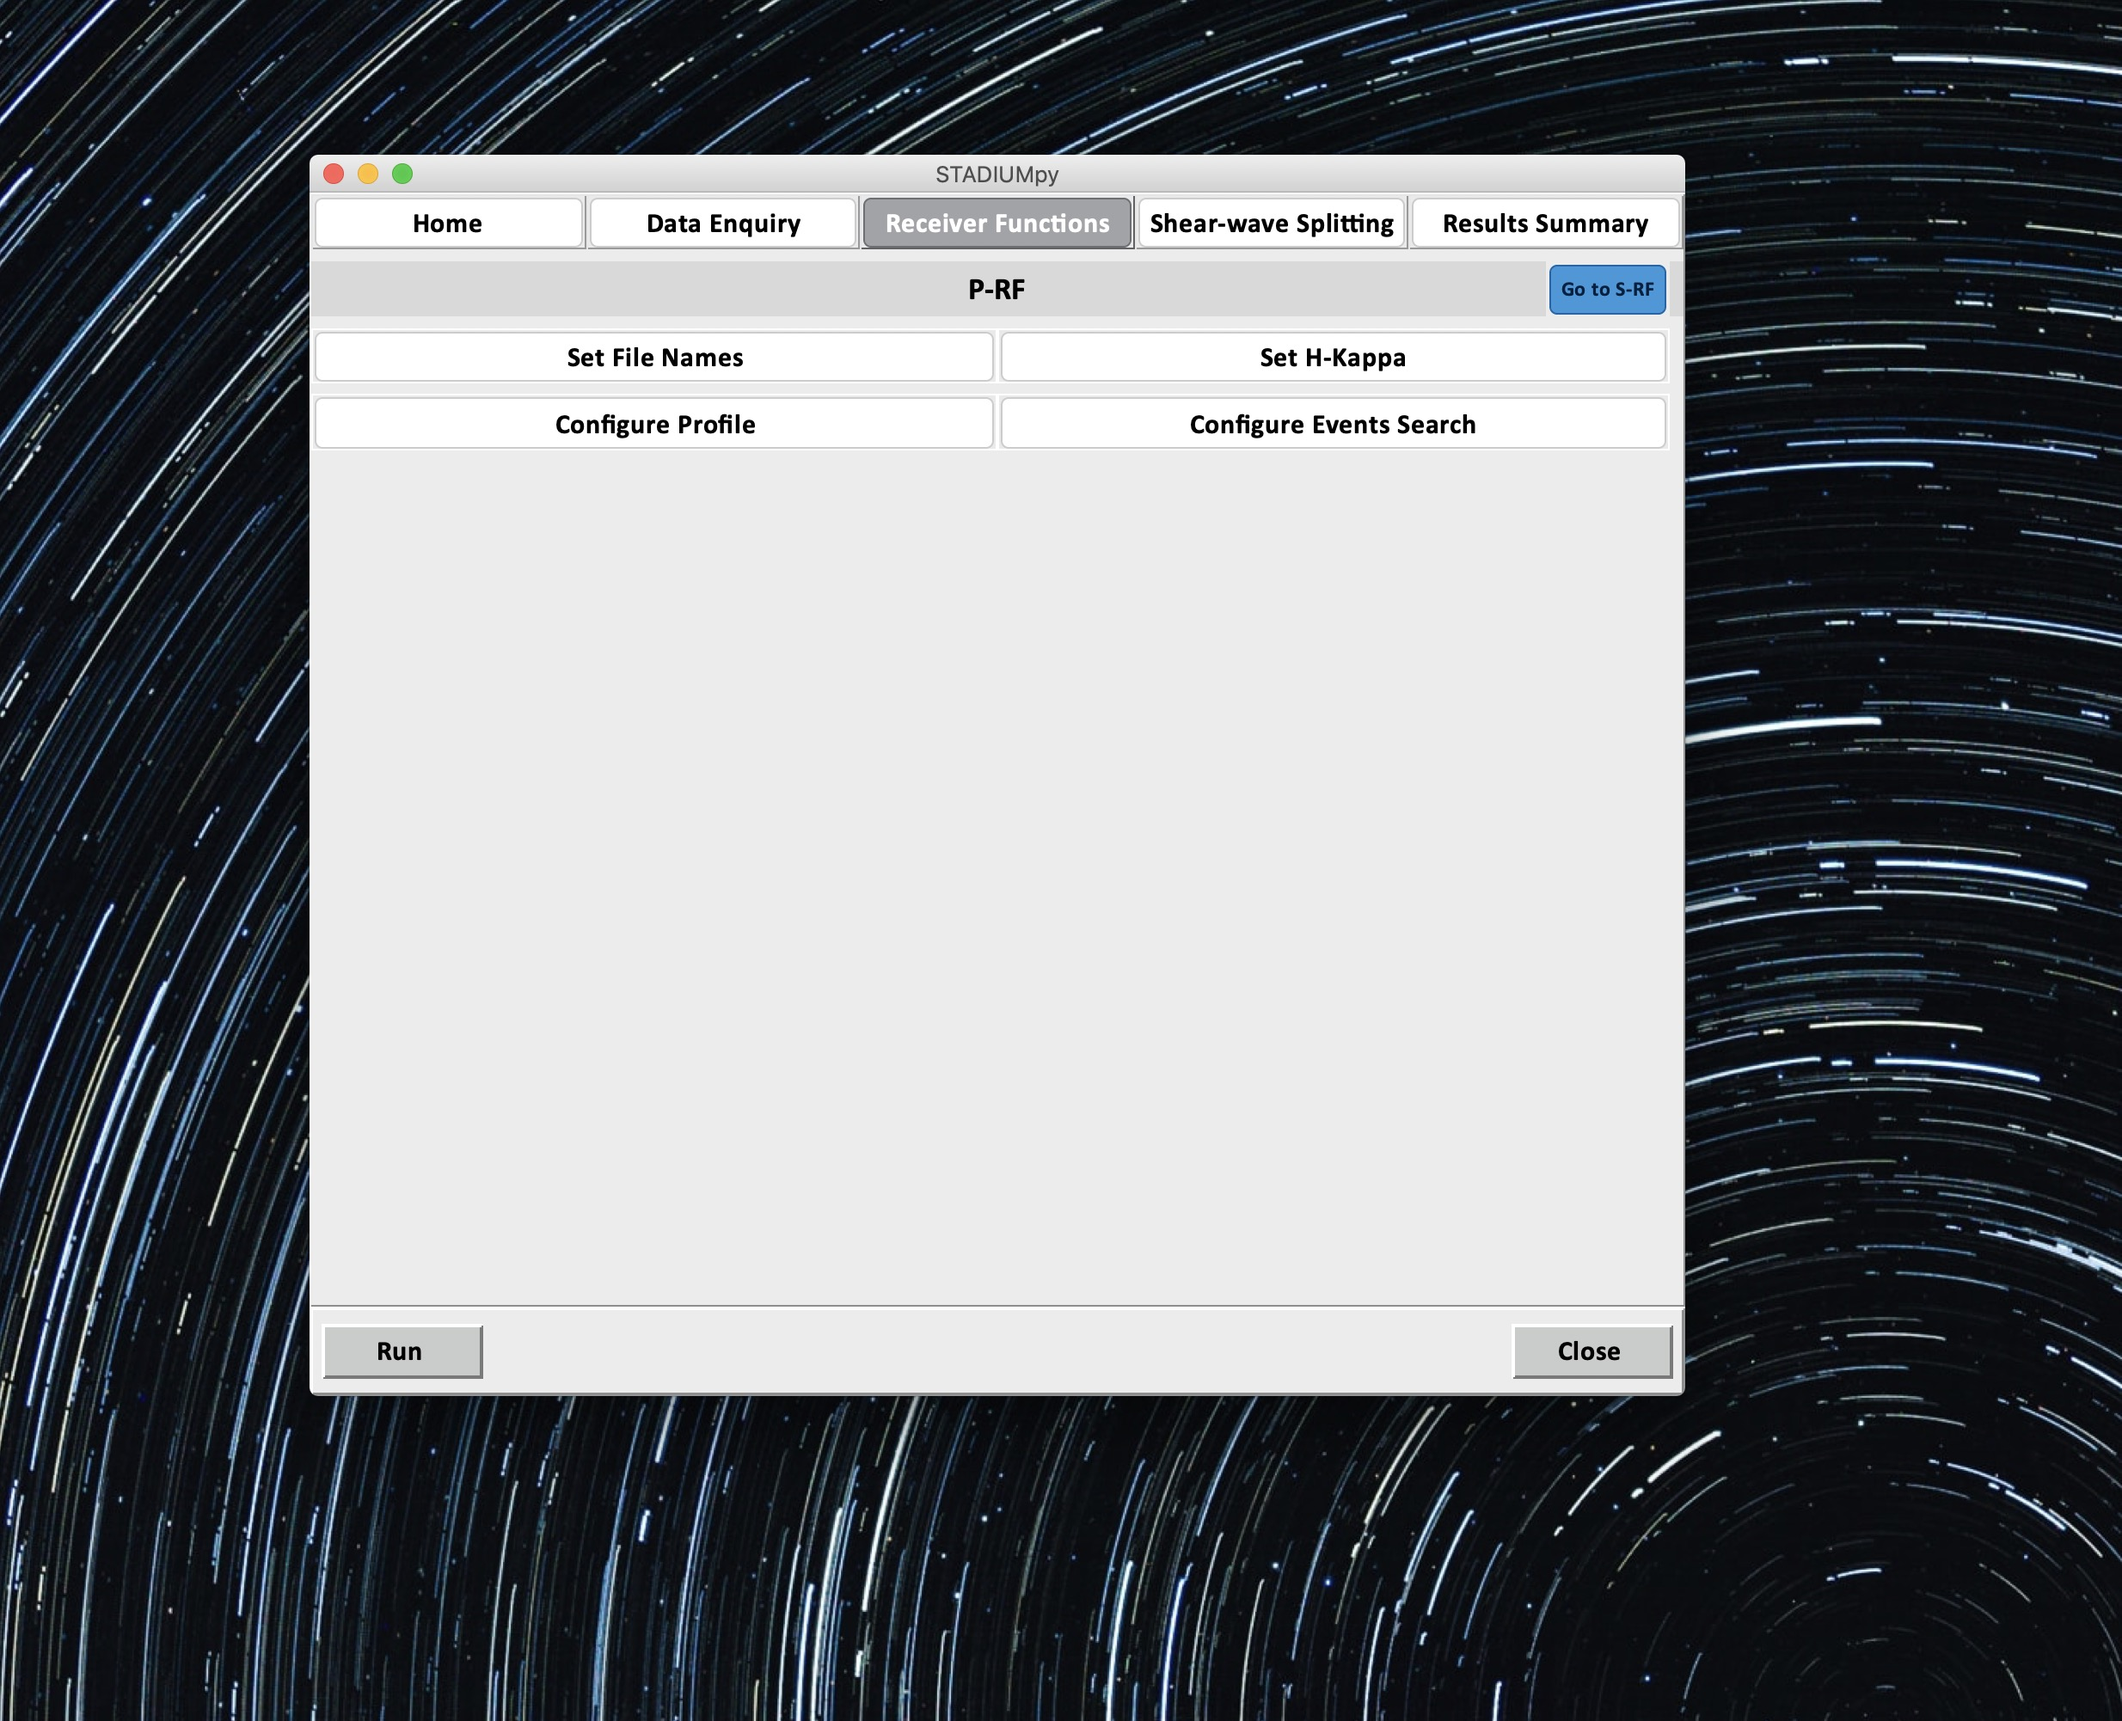
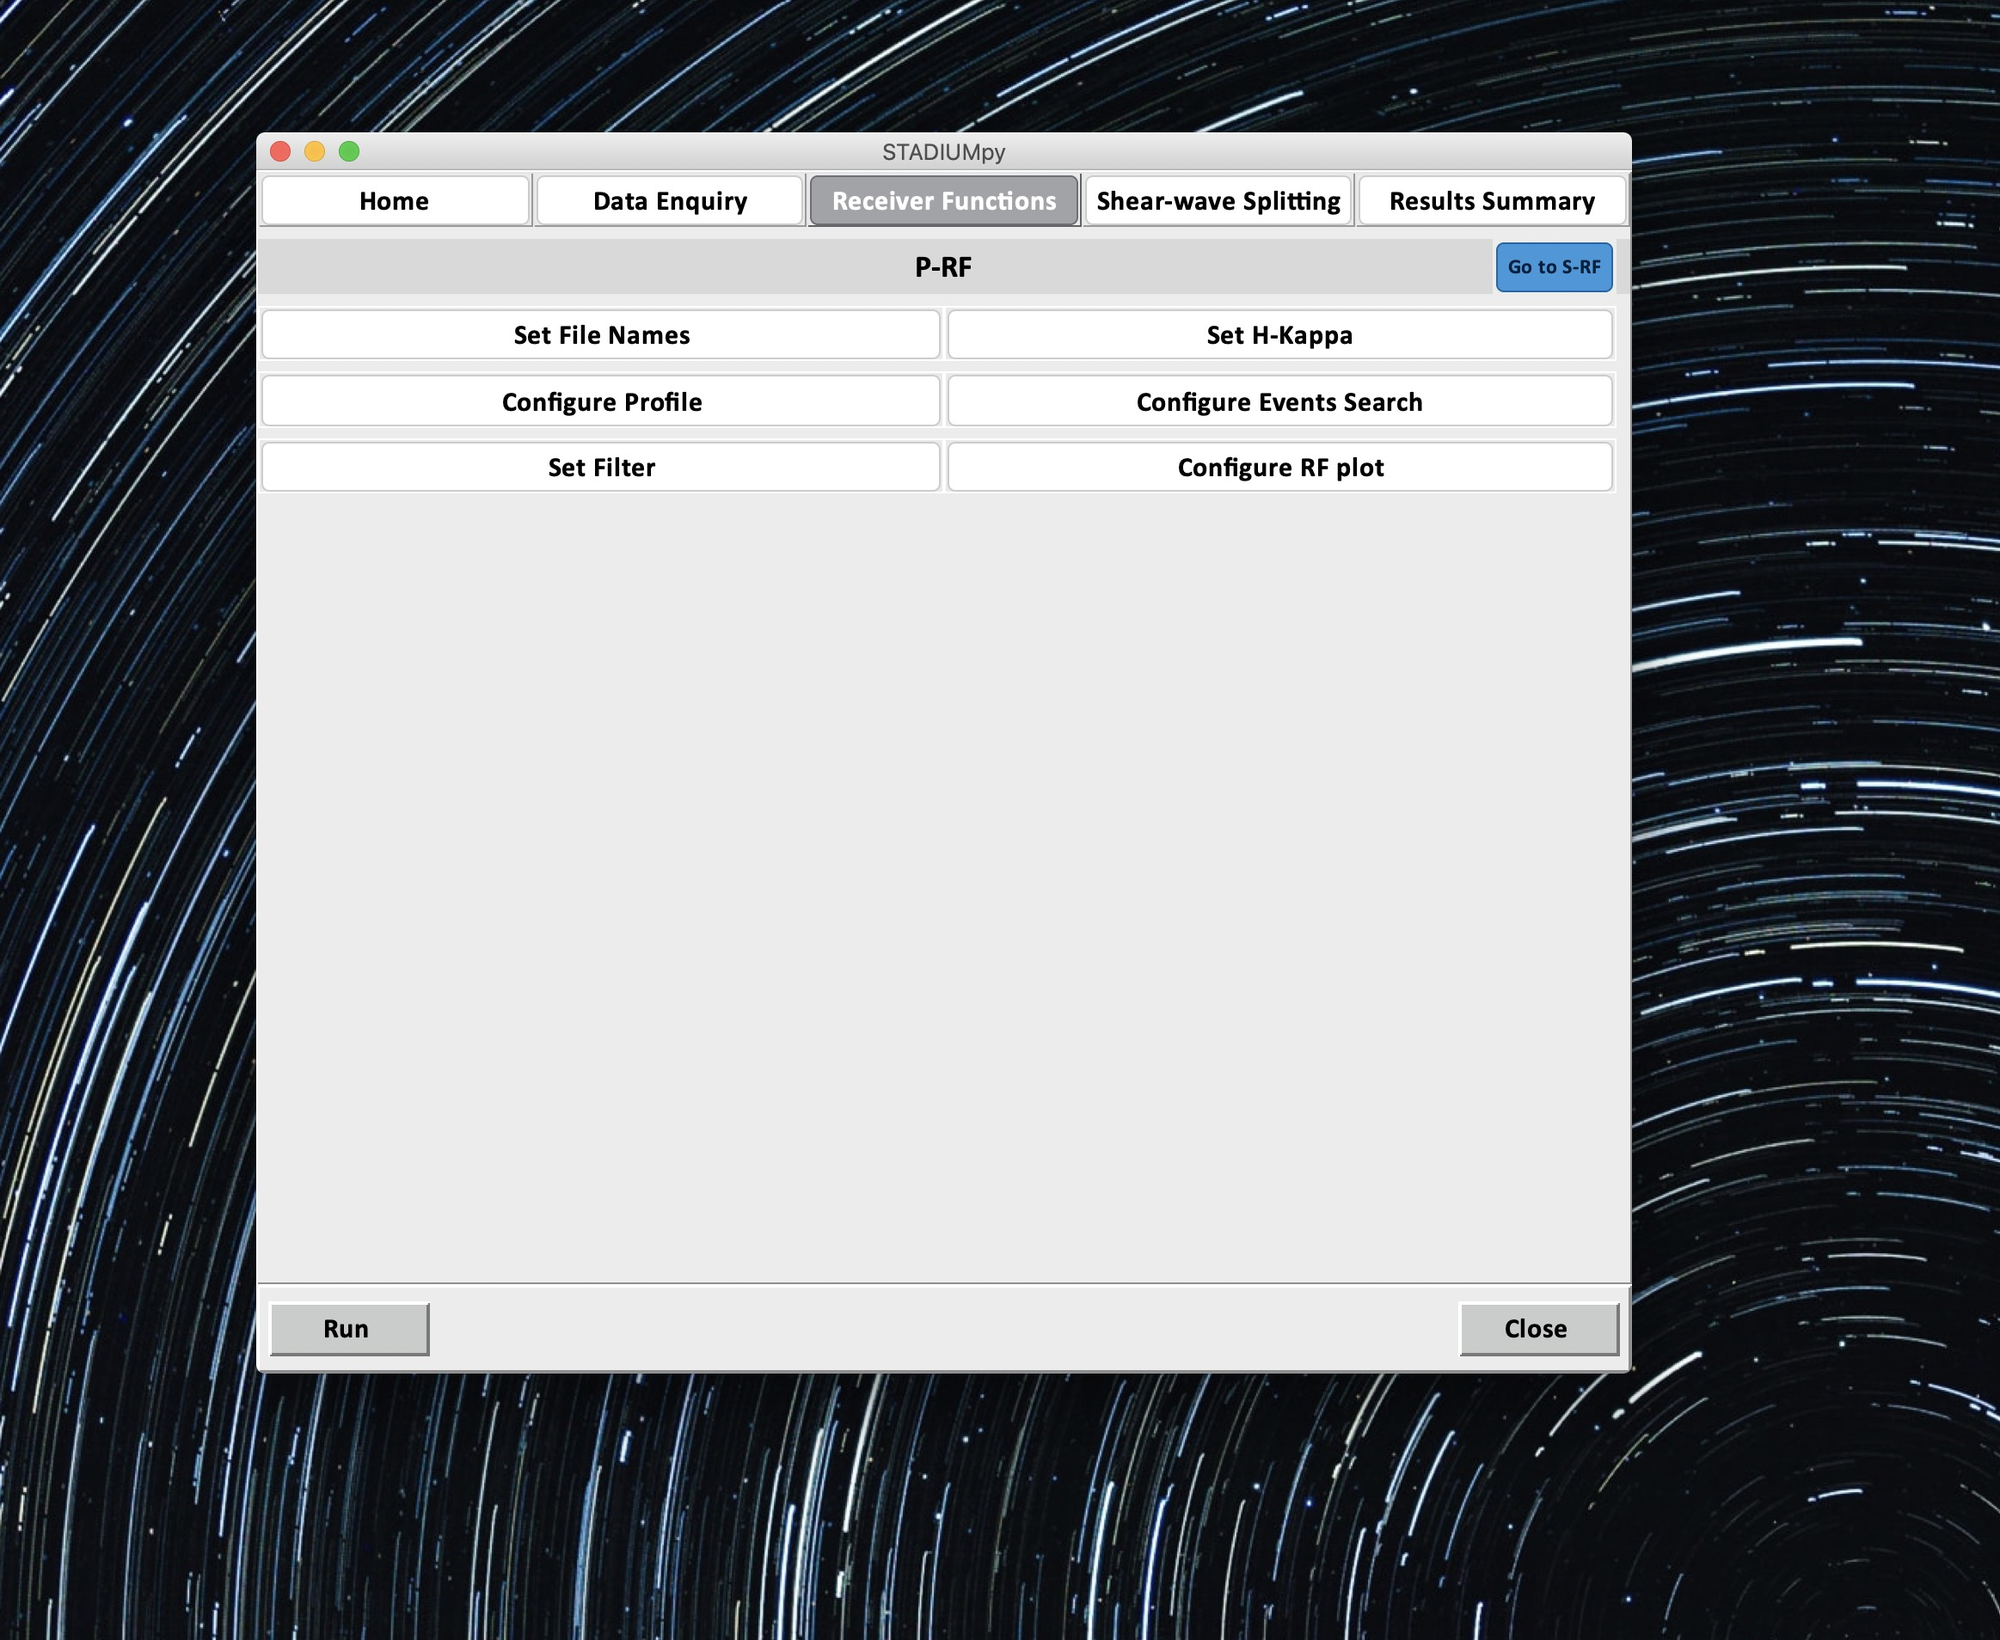
update PRF gui page

Changed region(s): [[0.0, 0.0, 1.0, 1.0]]

diff --git a/stadiumpy/PRFpages/prf_display_settings.py b/stadiumpy/PRFpages/prf_display_settings.py
@@ -13,7 +13,7 @@ from stadiumpy.top_buttons import display_main_buttons
 from stadiumpy.styles import button_options_red, button_options_green, toggle_mode, toggle_button, button_init, toggle_PRF, button_options_nav, button_options_back
 
 
-def prf_eventssearch(self, ttk, parent, controller, adv_prf, *pageArgs):
+def prf_display_settings(self, ttk, parent, controller, adv_prf, *pageArgs):
         RELY = 0
         RELHEIGHT, RELWIDTH = 0.05, 0.2
         RELXS = np.linspace(0,1,6)
@@ -52,33 +52,65 @@ def prf_eventssearch(self, ttk, parent, controller, adv_prf, *pageArgs):
 
         ##########################################
 
-        lbl1 = ttk.Label(self, text=r'Events Search', **labHeadOptions, relief=RIDGE)
+        lbl1 = ttk.Label(self, text=r'Plot Settings', **labHeadOptions, relief=RIDGE)
         lbl1.configure(anchor="center")
         RELY += RELHEIGHT+0.01 
         lbl1.place(relx=RELXS[0], rely=RELY, relheight=RELHEIGHT, relwidth=5*RELWIDTH)
 
 
         ##
-        evsearch_vars = list(adv_prf['rf_event_search_settings'].keys())
-        evsearch_vals = list(adv_prf['rf_event_search_settings'].values())
+        display_vars = list(adv_prf['rf_display_settings'].keys())
+        display_vals = list(adv_prf['rf_display_settings'].values())
 
         kk=0
-        while kk<len(evsearch_vars):
+        while kk<len(display_vars):
                 RELY += RELHEIGHT+0.01 
-                lbl1 = ttk.Label(self, text=evsearch_vars[kk]+":", **label_options)
+                lbl1 = ttk.Label(self, text=display_vars[kk]+":", **label_options)
                 lbl1.place(relx=RELXS[0], rely=RELY, relheight=RELHEIGHT, relwidth=RELWIDTH)
 
                 entry1 = ttk.Entry(self)
                 entry1.place(relx=RELXS[1], rely=RELY, relheight=RELHEIGHT, relwidth=RELWIDTH+halfCellX)
-                entry1.insert(0,evsearch_vals[kk])
+                entry1.insert(0,display_vals[kk])
                 kk+=1
 
                 ##
-                lbl1 = ttk.Label(self, text=evsearch_vars[kk]+":", **label_options)
+                lbl1 = ttk.Label(self, text=display_vars[kk]+":", **label_options)
                 lbl1.place(relx=RELXS[3]-halfCellX, rely=RELY, relheight=RELHEIGHT, relwidth=RELWIDTH)
 
                 entry1 = ttk.Entry(self)
                 entry1.place(relx=RELXS[4]-halfCellX, rely=RELY, relheight=RELHEIGHT, relwidth=RELWIDTH+halfCellX)
-                entry1.insert(0,evsearch_vals[kk])
+                entry1.insert(0,display_vals[kk])
+                kk+=1
+        
+        
+        
+        ##
+        lbl1 = ttk.Label(self, text=r'Plot Filters', **labHeadOptions, relief=RIDGE)
+        lbl1.configure(anchor="center")
+        RELY += RELHEIGHT+0.01 
+        lbl1.place(relx=RELXS[0], rely=RELY, relheight=RELHEIGHT, relwidth=5*RELWIDTH)
+
+
+        plotting_vars = list(adv_prf['rf_plotting_settings'].keys())
+        plotting_vals = list(adv_prf['rf_plotting_settings'].values())
+
+        kk=0
+        while kk<len(plotting_vars):
+                RELY += RELHEIGHT+0.01 
+                lbl1 = ttk.Label(self, text=plotting_vars[kk]+":", **label_options)
+                lbl1.place(relx=RELXS[0], rely=RELY, relheight=RELHEIGHT, relwidth=RELWIDTH)
+
+                entry1 = ttk.Entry(self)
+                entry1.place(relx=RELXS[1], rely=RELY, relheight=RELHEIGHT, relwidth=RELWIDTH+halfCellX)
+                entry1.insert(0,plotting_vals[kk])
+                kk+=1
+
+                ##
+                lbl1 = ttk.Label(self, text=plotting_vars[kk]+":", **label_options)
+                lbl1.place(relx=RELXS[3]-halfCellX, rely=RELY, relheight=RELHEIGHT, relwidth=RELWIDTH)
+
+                entry1 = ttk.Entry(self)
+                entry1.place(relx=RELXS[4]-halfCellX, rely=RELY, relheight=RELHEIGHT, relwidth=RELWIDTH+halfCellX)
+                entry1.insert(0,plotting_vals[kk])
                 kk+=1
         

diff --git a/stadiumpy/stadiumpy.py b/stadiumpy/stadiumpy.py
@@ -18,6 +18,8 @@ from stadiumpy.PRFpages.prf_filename import prf_filename
 from stadiumpy.PRFpages.prf_hkappa import prf_hkappa
 from stadiumpy.PRFpages.prf_profile_config import prf_profile_config
 from stadiumpy.PRFpages.prf_eventssearch import prf_eventssearch
+from stadiumpy.PRFpages.prf_filter_settings import prf_filter_settings
+from stadiumpy.PRFpages.prf_display_settings import prf_display_settings
 from stadiumpy.page_control import PageControl
 from stadiumpy.plot_map_gui import plotMap
 import stadiumpy
@@ -80,7 +82,9 @@ class stadiumpy(tk.Tk):
 
         self.frames = {}
 
-        stadium_pages = (StartPage, PageRF, PageSRF, PageDataEnquiry, PageSKS, PageControl, PageGeoRegion, ResultsSummary, PRF_filenames, PRF_hkappa, PRF_eventsSearch, PRF_profileconfig)
+        stadium_pages = (StartPage, PageRF, PageSRF, PageDataEnquiry, PageSKS, PageControl, PageGeoRegion,
+            ResultsSummary, PRF_filenames, PRF_hkappa, PRF_eventsSearch, PRF_profileconfig,
+            PRF_filter, PRF_display)
         for F in stadium_pages:
 
             frame = F(container, self)
@@ -101,7 +105,9 @@ class stadiumpy(tk.Tk):
         root.destroy()  # this is necessary on Windows to prevent
 
 def pageArgsOut():
-    pageArgs = (StartPage, PageDataEnquiry, PageRF, PageSKS, ResultsSummary, PageGeoRegion, PageSRF, PRF_filenames, PRF_hkappa, PRF_eventsSearch, PRF_profileconfig)
+    pageArgs = (StartPage, PageDataEnquiry, PageRF, PageSKS, ResultsSummary, PageGeoRegion,
+         PageSRF, PRF_filenames, PRF_hkappa, PRF_eventsSearch, PRF_profileconfig,
+         PRF_filter, PRF_display)
     return pageArgs
 
 
@@ -185,6 +191,18 @@ class PRF_eventsSearch(tk.Frame):
     def __init__(self, parent, controller):
         tk.Frame.__init__(self, parent)
         prf_eventssearch(self, ttk, parent, controller, adv_prf, *pageArgsOut())
+
+class PRF_filter(tk.Frame):
+
+    def __init__(self, parent, controller):
+        tk.Frame.__init__(self, parent)
+        prf_filter_settings(self, ttk, parent, controller, adv_prf, *pageArgsOut())
+
+class PRF_display(tk.Frame):
+
+    def __init__(self, parent, controller):
+        tk.Frame.__init__(self, parent)
+        prf_display_settings(self, ttk, parent, controller, adv_prf, *pageArgsOut())
 
         
 

diff --git a/stadiumpy/prf_page.py b/stadiumpy/prf_page.py
@@ -77,12 +77,26 @@ def prfview(self, ttk, parent, controller, adv_prf, *pageArgs):
         button_profile.place(relx=RELXS[0], rely=RELY, relheight=RELHEIGHT, relwidth=2.5*RELWIDTH)
 
         ## RF events search
-
         def gotoeventssearch():
                 controller.show_frame(pageArgs[9])
-        button_profile = Button(self, text="Configure Events Search", command=gotoeventssearch, **button_options)
+        button_evsearch = Button(self, text="Configure Events Search", command=gotoeventssearch, **button_options)
 
-        button_profile.place(relx=RELXS[2]+halfCellX, rely=RELY, relheight=RELHEIGHT, relwidth=2.5*RELWIDTH-drelx)
+        button_evsearch.place(relx=RELXS[2]+halfCellX, rely=RELY, relheight=RELHEIGHT, relwidth=2.5*RELWIDTH-drelx)
+        
+        ## RF filter
+        RELY += RELHEIGHT+0.01 
+        def gotofiltersettings():
+                controller.show_frame(pageArgs[11])
+        button_filter = Button(self, text="Set Filter", command=gotofiltersettings, **button_options)
+
+        button_filter.place(relx=RELXS[0], rely=RELY, relheight=RELHEIGHT, relwidth=2.5*RELWIDTH)
+        
+        ## RF filter
+        def gotofplotsettings():
+                controller.show_frame(pageArgs[12])
+        button_filter = Button(self, text="Configure RF plot", command=gotofplotsettings, **button_options)
+
+        button_filter.place(relx=RELXS[2]+halfCellX, rely=RELY, relheight=RELHEIGHT, relwidth=2.5*RELWIDTH-drelx)
         
 
         

diff --git a/stadiumpy/PRFpages/prf_filter_settings.py b/stadiumpy/PRFpages/prf_filter_settings.py
@@ -13,7 +13,7 @@ from stadiumpy.top_buttons import display_main_buttons
 from stadiumpy.styles import button_options_red, button_options_green, toggle_mode, toggle_button, button_init, toggle_PRF, button_options_nav, button_options_back
 
 
-def prf_eventssearch(self, ttk, parent, controller, adv_prf, *pageArgs):
+def prf_filter_settings(self, ttk, parent, controller, adv_prf, *pageArgs):
         RELY = 0
         RELHEIGHT, RELWIDTH = 0.05, 0.2
         RELXS = np.linspace(0,1,6)
@@ -52,15 +52,15 @@ def prf_eventssearch(self, ttk, parent, controller, adv_prf, *pageArgs):
 
         ##########################################
 
-        lbl1 = ttk.Label(self, text=r'Events Search', **labHeadOptions, relief=RIDGE)
+        lbl1 = ttk.Label(self, text=r'Filter Settings', **labHeadOptions, relief=RIDGE)
         lbl1.configure(anchor="center")
         RELY += RELHEIGHT+0.01 
         lbl1.place(relx=RELXS[0], rely=RELY, relheight=RELHEIGHT, relwidth=5*RELWIDTH)
 
 
         ##
-        evsearch_vars = list(adv_prf['rf_event_search_settings'].keys())
-        evsearch_vals = list(adv_prf['rf_event_search_settings'].values())
+        evsearch_vars = list(adv_prf['rf_filter_settings'].keys())
+        evsearch_vals = list(adv_prf['rf_filter_settings'].values())
 
         kk=0
         while kk<len(evsearch_vars):
